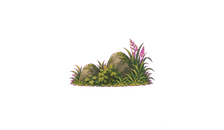
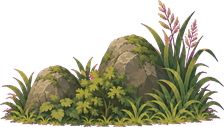
Add files via upload

diff --git a/sidescroll.js b/sidescroll.js
@@ -732,7 +732,7 @@
   // v1.8.81: forest dressing now comes from one authored atlas.
   // This removes the old per-file fallback path which could substitute the
   // full woodland source sheet when an individual PNG failed to load.
-  textures.dressingAtlas = createImageTexture('sidescroll-dressing-atlas.png?v=0.2.68', 'SideScroll dressing atlas');
+  textures.dressingAtlas = createImageTexture('sidescroll-dressing-atlas.png?v=0.2.69', 'SideScroll dressing atlas');
   textures.treeAtlas = createImageTexture('sidescroll-tree-atlas.png?v=0.2.67', 'SideScroll tree atlas');
   const assetUv = {
     tree01: { scale: [0.237304688, 0.315429688], offset: [0.006347656, 0.510742188] },
@@ -743,18 +743,18 @@
     tree06: { scale: [0.237304688, 0.315429688], offset: [0.256347656, 0.010742188] },
     tree07: { scale: [0.237304688, 0.315429688], offset: [0.506347656, 0.010742188] },
     tree08: { scale: [0.237304688, 0.315429688], offset: [0.756347656, 0.010742188] },
-    ground01: { scale: [0.218750000, 0.099609375], offset: [0.015625000, 0.765625000] },
-    ground02: { scale: [0.218750000, 0.158203125], offset: [0.265625000, 0.765625000] },
-    ground03: { scale: [0.218750000, 0.168945312], offset: [0.515625000, 0.765625000] },
-    ground04: { scale: [0.218750000, 0.126953125], offset: [0.765625000, 0.765625000] },
-    ground05: { scale: [0.218750000, 0.177734375], offset: [0.015625000, 0.515625000] },
-    ground06: { scale: [0.218750000, 0.121093750], offset: [0.265625000, 0.515625000] },
-    ground07: { scale: [0.218750000, 0.119140625], offset: [0.515625000, 0.515625000] },
-    ground08: { scale: [0.218750000, 0.109375000], offset: [0.765625000, 0.515625000] },
-    ground09: { scale: [0.218750000, 0.080078125], offset: [0.015625000, 0.265625000] },
-    ground10: { scale: [0.218750000, 0.110351562], offset: [0.265625000, 0.265625000] },
-    ground11: { scale: [0.218750000, 0.099609375], offset: [0.515625000, 0.265625000] },
-    ground12: { scale: [0.218750000, 0.126953125], offset: [0.765625000, 0.265625000] },
+    ground01: { scale: [0.218750000, 0.109375000], offset: [0.015625000, 0.747070312] },
+    ground02: { scale: [0.218750000, 0.138671875], offset: [0.265625000, 0.747070312] },
+    ground03: { scale: [0.218750000, 0.110351562], offset: [0.515625000, 0.747070312] },
+    ground04: { scale: [0.218750000, 0.124023438], offset: [0.765625000, 0.747070312] },
+    ground05: { scale: [0.218750000, 0.145507812], offset: [0.015625000, 0.502929688] },
+    ground06: { scale: [0.218750000, 0.067382812], offset: [0.265625000, 0.502929688] },
+    ground07: { scale: [0.218750000, 0.137695312], offset: [0.515625000, 0.502929688] },
+    ground08: { scale: [0.218750000, 0.050781250], offset: [0.765625000, 0.502929688] },
+    ground09: { scale: [0.218750000, 0.109375000], offset: [0.015625000, 0.258789062] },
+    ground10: { scale: [0.218750000, 0.138671875], offset: [0.265625000, 0.258789062] },
+    ground11: { scale: [0.218750000, 0.110351562], offset: [0.515625000, 0.258789062] },
+    ground12: { scale: [0.218750000, 0.124023438], offset: [0.765625000, 0.258789062] },
   };
   const assetDimensions = {
     tree01: [486, 646],
@@ -765,18 +765,18 @@
     tree06: [486, 646],
     tree07: [486, 646],
     tree08: [486, 646],
-    ground01: [224, 102],
-    ground02: [224, 162],
-    ground03: [224, 173],
-    ground04: [224, 130],
-    ground05: [224, 182],
-    ground06: [224, 124],
-    ground07: [224, 122],
-    ground08: [224, 112],
-    ground09: [224, 82],
-    ground10: [224, 113],
-    ground11: [224, 102],
-    ground12: [224, 130],
+    ground01: [224, 112],
+    ground02: [224, 142],
+    ground03: [224, 113],
+    ground04: [224, 127],
+    ground05: [224, 149],
+    ground06: [224, 69],
+    ground07: [224, 141],
+    ground08: [224, 52],
+    ground09: [224, 112],
+    ground10: [224, 142],
+    ground11: [224, 113],
+    ground12: [224, 127],
   };
   Object.entries(assetDimensions).forEach(([key, size]) => {
     assetAspect[key] = size[0] / size[1];
@@ -1347,18 +1347,18 @@
   function scatterForest() {
     const trees = ['tree01', 'tree02', 'tree03', 'tree04', 'tree05', 'tree06', 'tree07', 'tree08'];
     const dressingDefs = {
-      ground01: { family:'foliage', weight:1.34, hMin:1.08, hMax:1.42, radius:1.08, same:4.2, nearWeight:1.44, farWeight:1.10 },
+      ground01: { family:'rock', weight:1.34, hMin:1.08, hMax:1.42, radius:1.08, same:4.2, nearWeight:1.44, farWeight:1.10 },
       ground02: { family:'foliage', weight:1.12, hMin:1.26, hMax:1.68, radius:1.28, same:5.2, nearWeight:1.02, farWeight:1.16 },
       ground03: { family:'foliage', weight:1.08, hMin:1.18, hMax:1.62, radius:1.18, same:4.7, nearWeight:1.22, farWeight:1.04 },
-      ground04: { family:'foliage', weight:1.04, hMin:1.18, hMax:1.64, radius:1.24, same:4.8, nearWeight:1.08, farWeight:1.18 },
-      ground05: { family:'twig',    weight:0.50, hMin:1.04, hMax:1.34, radius:0.98, same:5.8, nearWeight:0.64, farWeight:0.84 },
-      ground06: { family:'foliage', weight:1.10, hMin:1.16, hMax:1.56, radius:1.22, same:4.8, nearWeight:1.14, farWeight:1.06 },
+      ground04: { family:'rock', weight:1.04, hMin:1.18, hMax:1.64, radius:1.24, same:4.8, nearWeight:1.08, farWeight:1.18 },
+      ground05: { family:'foliage',    weight:0.50, hMin:1.04, hMax:1.34, radius:0.98, same:5.8, nearWeight:0.64, farWeight:0.84 },
+      ground06: { family:'rock', weight:1.10, hMin:1.16, hMax:1.56, radius:1.22, same:4.8, nearWeight:1.14, farWeight:1.06 },
       ground07: { family:'rock',    weight:0.56, hMin:0.92, hMax:1.18, radius:1.14, same:5.2, nearWeight:0.82, farWeight:0.74 },
       ground08: { family:'rock',    weight:0.50, hMin:1.04, hMax:1.34, radius:1.34, same:5.8, nearWeight:0.76, farWeight:0.78 },
       ground09: { family:'rock',    weight:0.46, hMin:0.86, hMax:1.06, radius:1.08, same:4.8, nearWeight:0.76, farWeight:0.68 },
-      ground10: { family:'rock',    weight:0.42, hMin:1.10, hMax:1.46, radius:1.38, same:6.0, nearWeight:0.70, farWeight:0.66 },
+      ground10: { family:'foliage',    weight:0.42, hMin:1.10, hMax:1.46, radius:1.38, same:6.0, nearWeight:0.70, farWeight:0.66 },
       ground11: { family:'foliage', weight:1.02, hMin:1.04, hMax:1.34, radius:1.06, same:4.3, nearWeight:1.24, farWeight:1.00 },
-      ground12: { family:'foliage', weight:0.98, hMin:1.12, hMax:1.48, radius:1.14, same:4.6, nearWeight:1.18, farWeight:1.10 }
+      ground12: { family:'rock', weight:0.98, hMin:1.12, hMax:1.48, radius:1.14, same:4.6, nearWeight:1.18, farWeight:1.10 }
     };
 
     const placedTrees = [];

diff --git a/sw.js b/sw.js
@@ -1,4 +1,4 @@
-const CACHE = "sidescroll-v0.2.67";
+const CACHE = "sidescroll-v0.2.69";
 const APP_SHELL = [
   "./",
   "./index.html",

diff --git a/README.md b/README.md
@@ -1,9 +1,11 @@
-# SideScroll v0.2.68
+# SideScroll v0.2.69
 
-Updated grassy rock dressing set.
+Ground-dressing scale and baseline correction.
 
-- replaced the ground dressing textures with the newly generated grassy rock set
-- processed the new assets through the soft alpha + colour dilation pipeline
-- rebuilt the dressing atlas using the new textures
-- anchored the new dressing textures flush to the baseline to avoid floating
-- left tree placement, fog, controls and puzzle logic unchanged
+- reprocessed the new grassy rock set with a stricter magenta-key soft-alpha pass
+- removed the large residual magenta canvas that was making the visible artwork tiny inside each plane
+- colour-dilated RGB under the transparent edge to avoid magenta fringes
+- rebuilt each dressing atlas rectangle to match the real aspect ratio of its artwork
+- anchored visible pixels flush to the billboard baseline so rocks and grass no longer hover
+- retained all eight new art variants, with four mirrored variants filling the existing 12 procedural slots
+- no tree, fog, puzzle or control changes in this build
